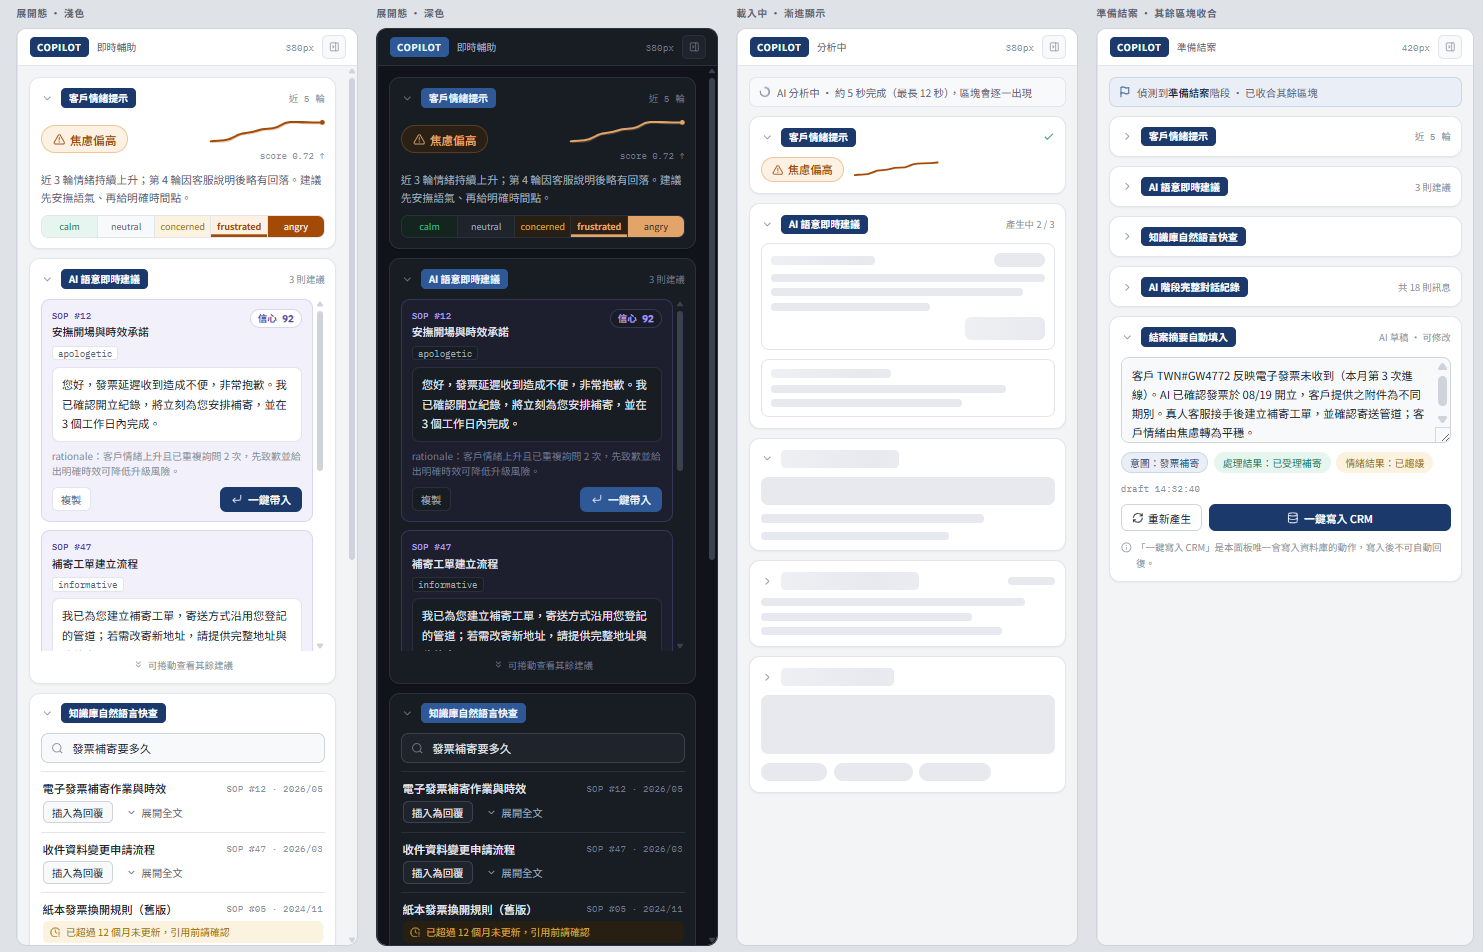
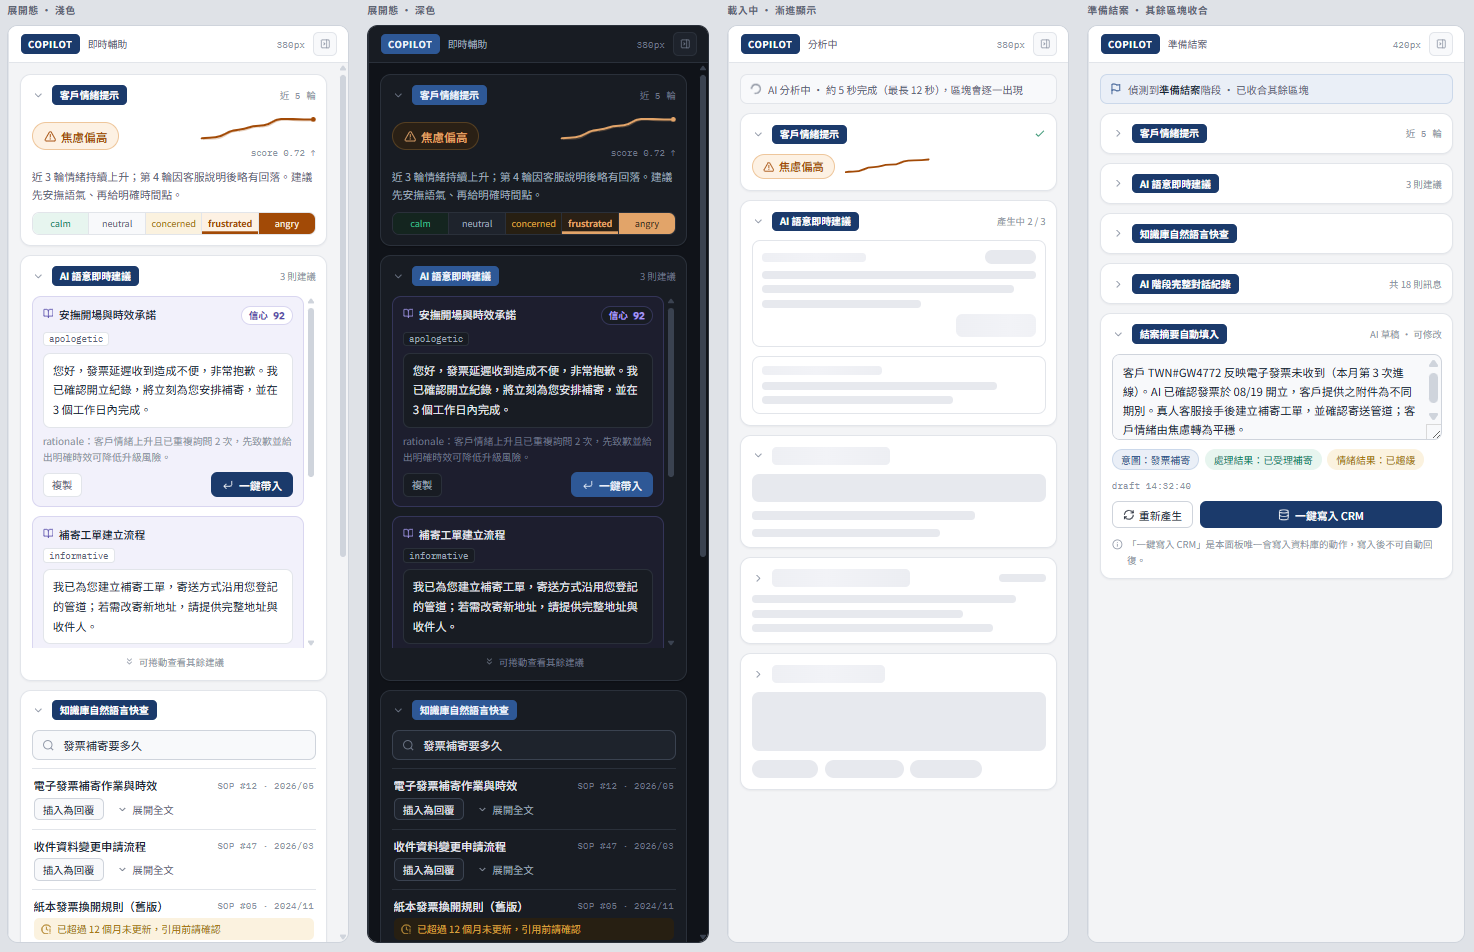
docs: 同步 SOP 編號被撤銷的決定——設計稿虛構示範，實際無編號制度
`specs/002-suggestion-knowledge-search` 的規格落地過程中確認：DESIGN_TOKENS.md
與設計稿（wireframe/05…）裡畫的「SOP #12」「SOP #47」等編號是設計稿為展示效果
虛構的示範資料。iMBrace 知識庫本身沒有正式的編號制度（檔案就是一般檔案），
堅持顯示虛構編號對客服無實際資訊價值，屬過度設計，已撤銷。

- ARCHITECTURE.md §8.2：KnowledgeHit 介面移除 `code` 欄位，`id` 純供白名單核對，
  不進 UI；來源僅以 title 顯示
- DESIGN_TOKENS.md §7.2：調整描述以移除對 SOP 編號的預期；標註第 3 區塊截圖
  待後續與設計稿一併同步（目前截圖仍有編號，與決定不一致）
- wireframe/05…：對應移除截圖中 SOP 編號的視覺呈現

詳見該規格 research.md #2 與 spec.md Assumptions。

diff --git a/docs/DESIGN_TOKENS.md b/docs/DESIGN_TOKENS.md
@@ -250,18 +250,18 @@ box-shadow: var(--shadow)
 由上到下：
 
 1. **客戶情緒提示**（tag「近 5 輪」）—— 情緒警示 pill（如「⚠ 焦慮偏高」，橘色，疑似沿用 `--warn`/`--warn-bg` 色票）＋ 折線走勢圖（score，如「0.72 ↑」）＋ 一段文字摘要（近幾輪情緒變化與建議）＋ 情緒量表圖例（`calm`／`neutral`／`concerned`／`frustrated`／`angry`，目前所在區間會被強調顯示）
-2. **AI 語意即時建議**（tag「N 則建議」，載入中顯示「產生中 x/y」）—— 一張或多張建議卡：`SOP #編號` ＋ 標題 ＋ 語氣標籤（如 `apologetic`／`informative`）＋ 建議回覆全文 ＋「rationale：」推薦理由 ＋「複製」／「↵ 一鍵帶入」兩個按鈕；卡片間可捲動（「可捲動查看其餘建議」）。**「信心 NN」分數不是每張卡都有**——截圖裡 SOP #12 那張畫了「信心 92」，緊接著的 SOP #47（補寄工單建立流程）沒有信心分數，設計稿本身就是條件式呈現，見下方說明
-3. **知識庫自然語言快查** —— 搜尋輸入框（placeholder 為示範查詢句，如「發票補寄要多久」）＋ 結果清單，每筆：標題 ＋「SOP #編號 · 年/月」＋「插入為回覆」／「展開全文」按鈕；過期文件會多一條警示列（如「⏱ 已超過 12 個月未更新，引用前請確認」，疑似沿用 `--warn` 系色票）
+2. **AI 語意即時建議**（tag「N 則建議」，載入中顯示「產生中 x/y」）—— 一張或多張建議卡：標題 ＋ 語氣標籤（如 `apologetic`／`informative`）＋ 建議回覆全文 ＋「rationale：」推薦理由 ＋「複製」／「↵ 一鍵帶入」兩個按鈕；卡片間可捲動（「可捲動查看其餘建議」）。**「信心 NN」分數不是每張卡都有**——截圖裡第一張卡（安撫開場與時效承諾）畫了「信心 92」，緊接著的第二張卡（補寄工單建立流程）沒有信心分數，設計稿本身就是條件式呈現，見下方說明。（2026-08-27 訂正：卡片標題前原本畫有 `SOP #編號` 徽章，經核對真實知識庫資料後確認 iMBrace 沒有這套編號制度，畫布擁有者已同步移除該徽章並更新截圖與 artifact，見 `specs/002-suggestion-knowledge-search/research.md` #2）
+3. **知識庫自然語言快查** —— 搜尋輸入框（placeholder 為示範查詢句，如「發票補寄要多久」）＋ 結果清單，每筆：標題 ＋「插入為回覆」／「展開全文」按鈕；過期文件會多一條警示列（如「⏱ 已超過 12 個月未更新，引用前請確認」，疑似沿用 `--warn` 系色票）。⚠ **本節截圖尚未同步修正**：目前 `docs/wireframe/05-copilot-panel_4status_01.png` 此區塊仍畫有「SOP #12 · 2026/05」一類的編號＋日期格式，與第 2 區塊已移除編號的決定不一致；已與畫布擁有者確認**此區塊的編號也應一併移除**（僅顯示標題＋更新日期），截圖與 artifact 待後續一併更新，本文件先依最終決定描述，不逐字照抄目前截圖上這一處
 4. **AI 階段完整對話紀錄**（tag「共 N 則訊息」）—— 逐則對話紀錄（客／AI／客服三種發送者），支援附件顯示（PDF：檔名 ＋「PDF・檔名僅供辨識，無法預覽」；圖片：檔名 ＋「可預覽縮圖」）；區塊內可捲動，底部有一行「{{顯示｜隱藏}} AI 階段 x/y 則・可捲動」——**這行的動詞是「顯示」還是「隱藏」，兩張截圖肉眼判讀不一致，尚未確認，開工前務必核對原始檔**
 5. **結案摘要自動填入**（tag「AI 草稿・可修改」）—— 可編輯文字區塊（AI 生成的結案摘要草稿）＋ 三個分類 pill（「意圖：…」／「處理結果：…」／「情緒結果：…」）＋「draft {{時間}}」時間戳 ＋「↻ 重新產生」／「▤ 一鍵寫入 CRM」兩個按鈕 ＋ 一行提醒文字：「「一鍵寫入 CRM」是本面板唯一會寫入資料庫的動作，寫入後不可自動回復。」
 
 > ⚠ 第 5 區塊的「一鍵寫入 CRM 不可回復」提醒，語氣上與 `ARCHITECTURE.md`／`CONSTITUTION.md` 裡對「寫入類操作需明確、不可靜默」的既有原則一致，**這點在 2a 是設計稿本身就強調的，不是本文件外推**。
 
 > ✅ **與 `CONSTITUTION.md` §4.4 一致，非衝突**：該條規定 `confidence` 沒有真實依據時 MUST 為 `null`、
-> UI 依 `null` 與否決定顯示或留空。第 2 區塊的示範卡片剛好就是這樣畫的——SOP #12 有信心分數，
-> 緊接著的 SOP #47 沒有，兩張卡在同一張截圖裡並列。**設計稿沒有超前於技術限制，是本文件先前的判讀錯誤，
-> 2026-08-26 由使用者指出後更正**：實作時信心分數本來就該依 `confidence` 是否為 `null` 決定顯示或留空，
-> 不需要另外隱藏或改動設計稿的呈現方式。
+> UI 依 `null` 與否決定顯示或留空。第 2 區塊的示範卡片剛好就是這樣畫的——第一張卡（安撫開場與時效
+> 承諾）有信心分數，緊接著的第二張卡（補寄工單建立流程）沒有，兩張卡在同一張截圖裡並列。**設計稿
+> 沒有超前於技術限制，是本文件先前的判讀錯誤，2026-08-26 由使用者指出後更正**：實作時信心分數本來
+> 就該依 `confidence` 是否為 `null` 決定顯示或留空，不需要另外隱藏或改動設計稿的呈現方式。
 
 ### 7.3 面板 Header（肉眼讀圖）
 
